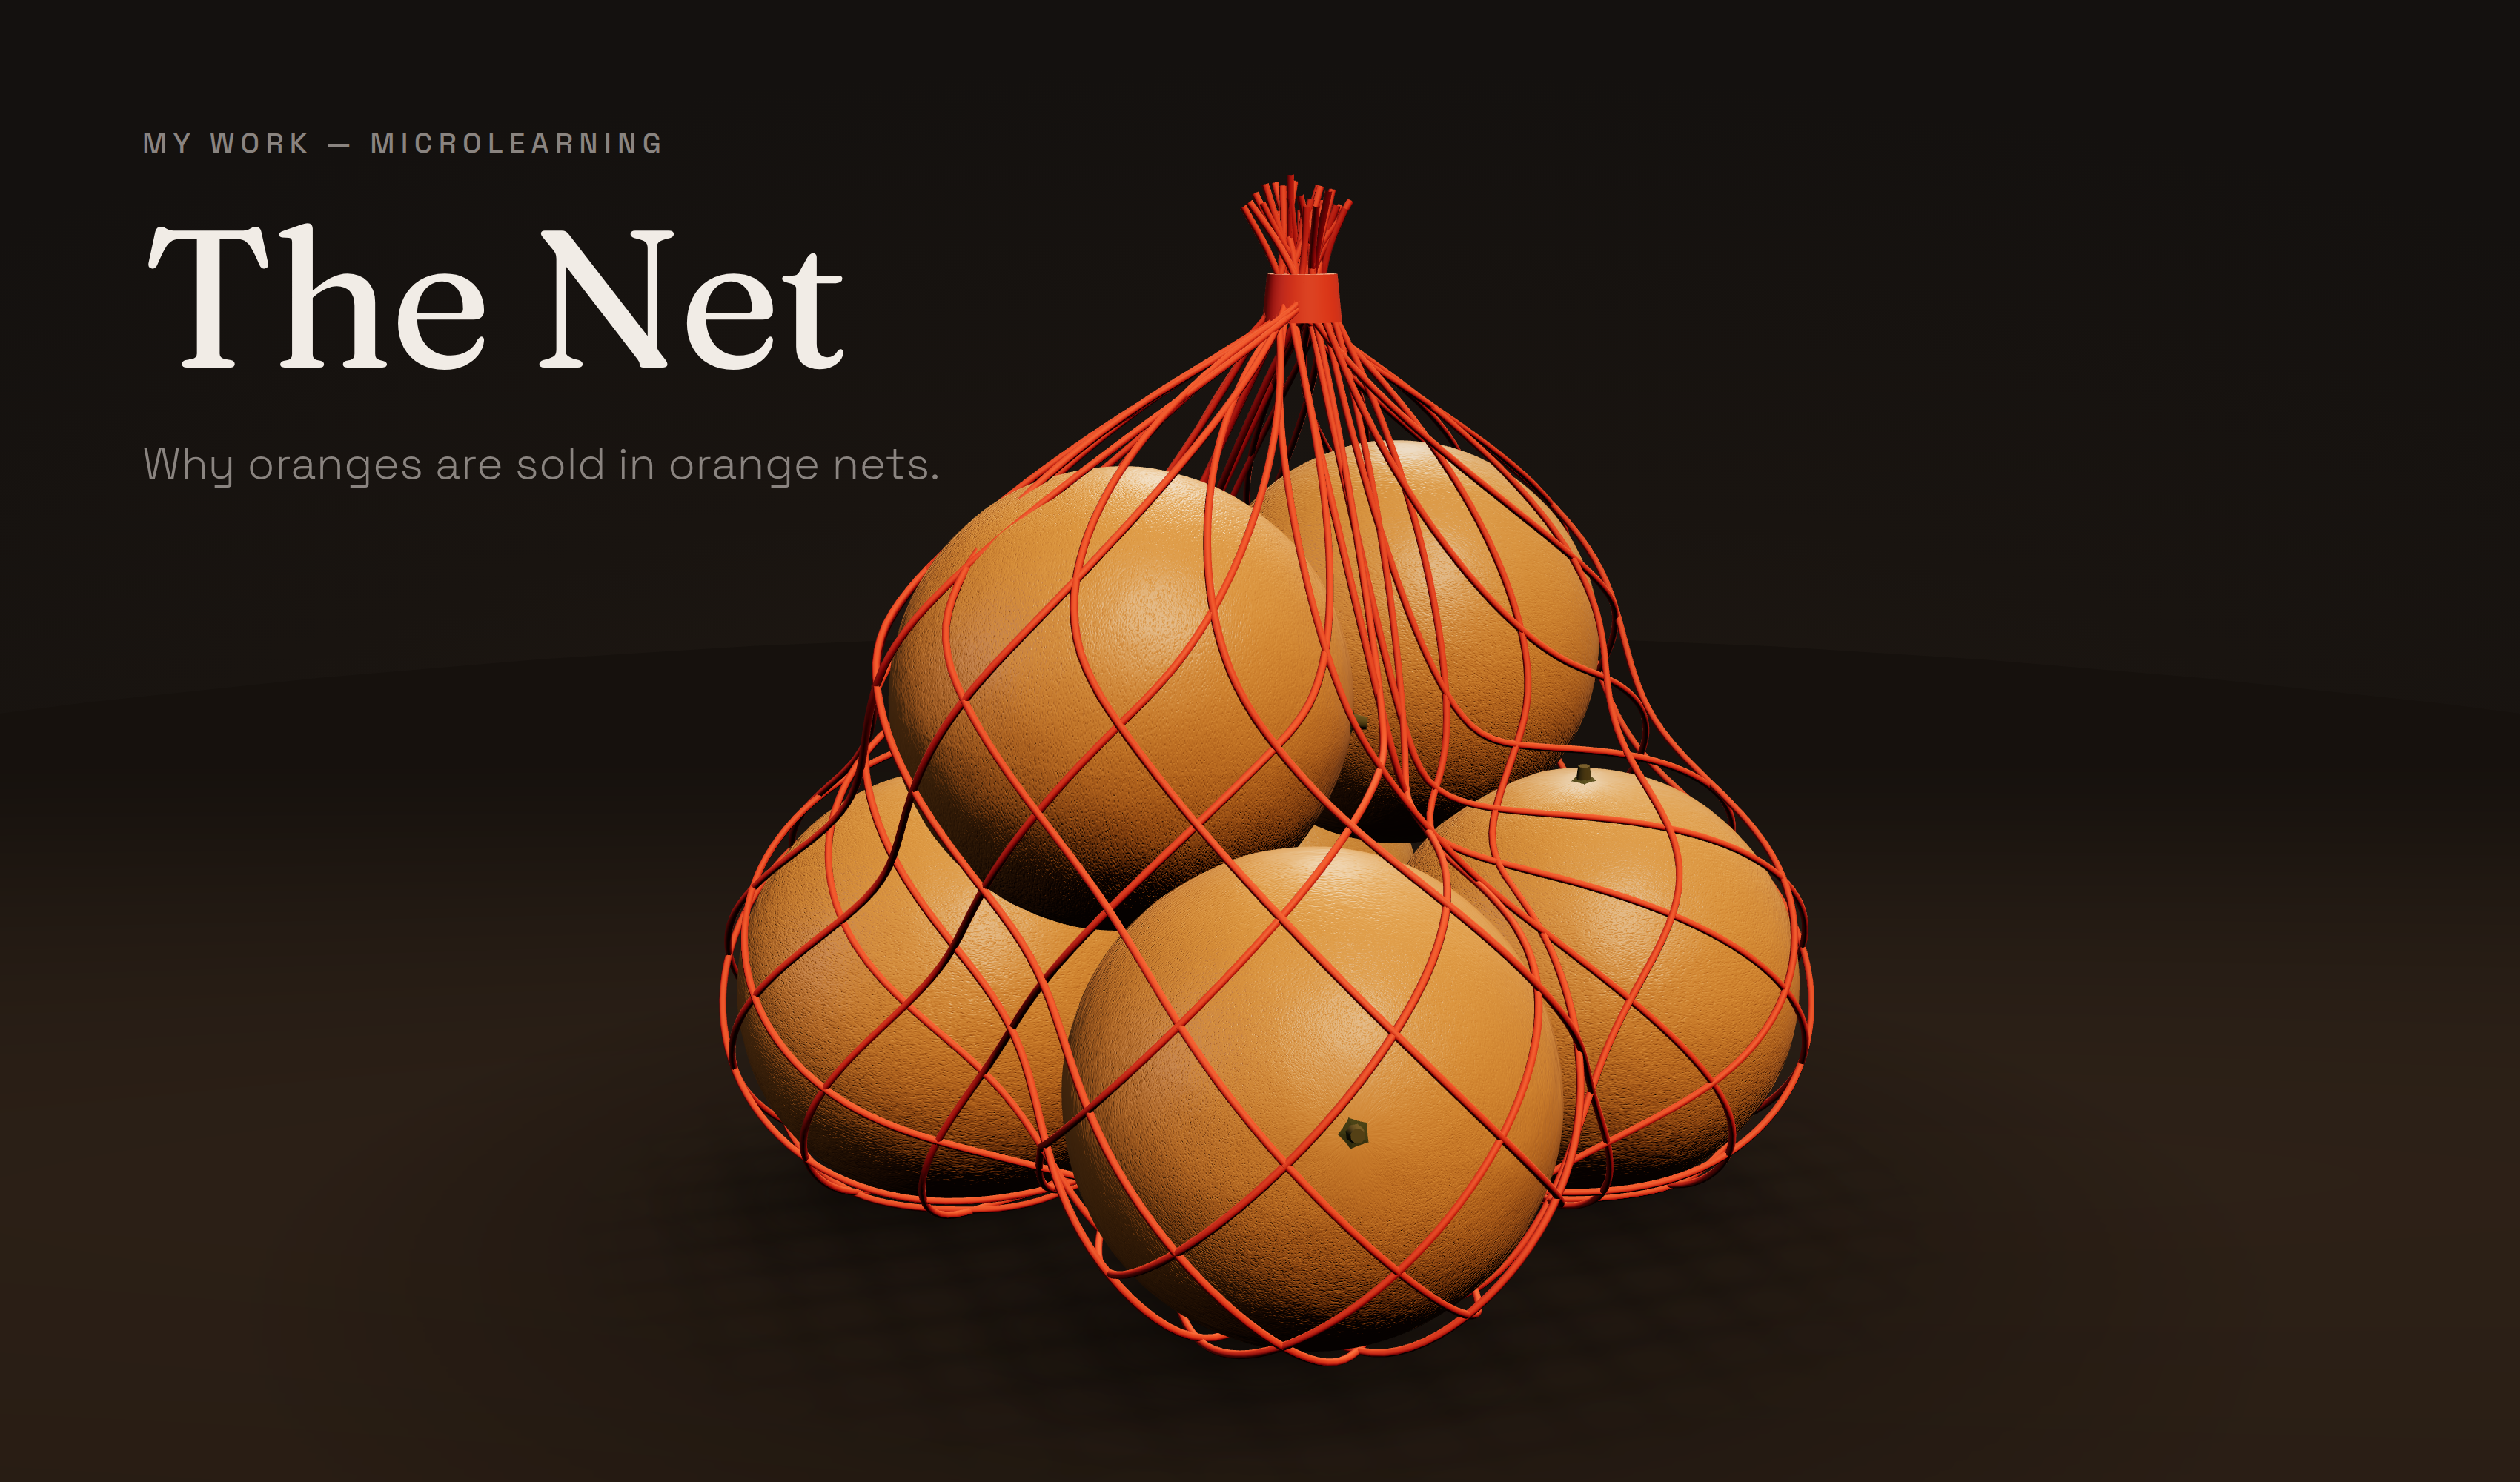
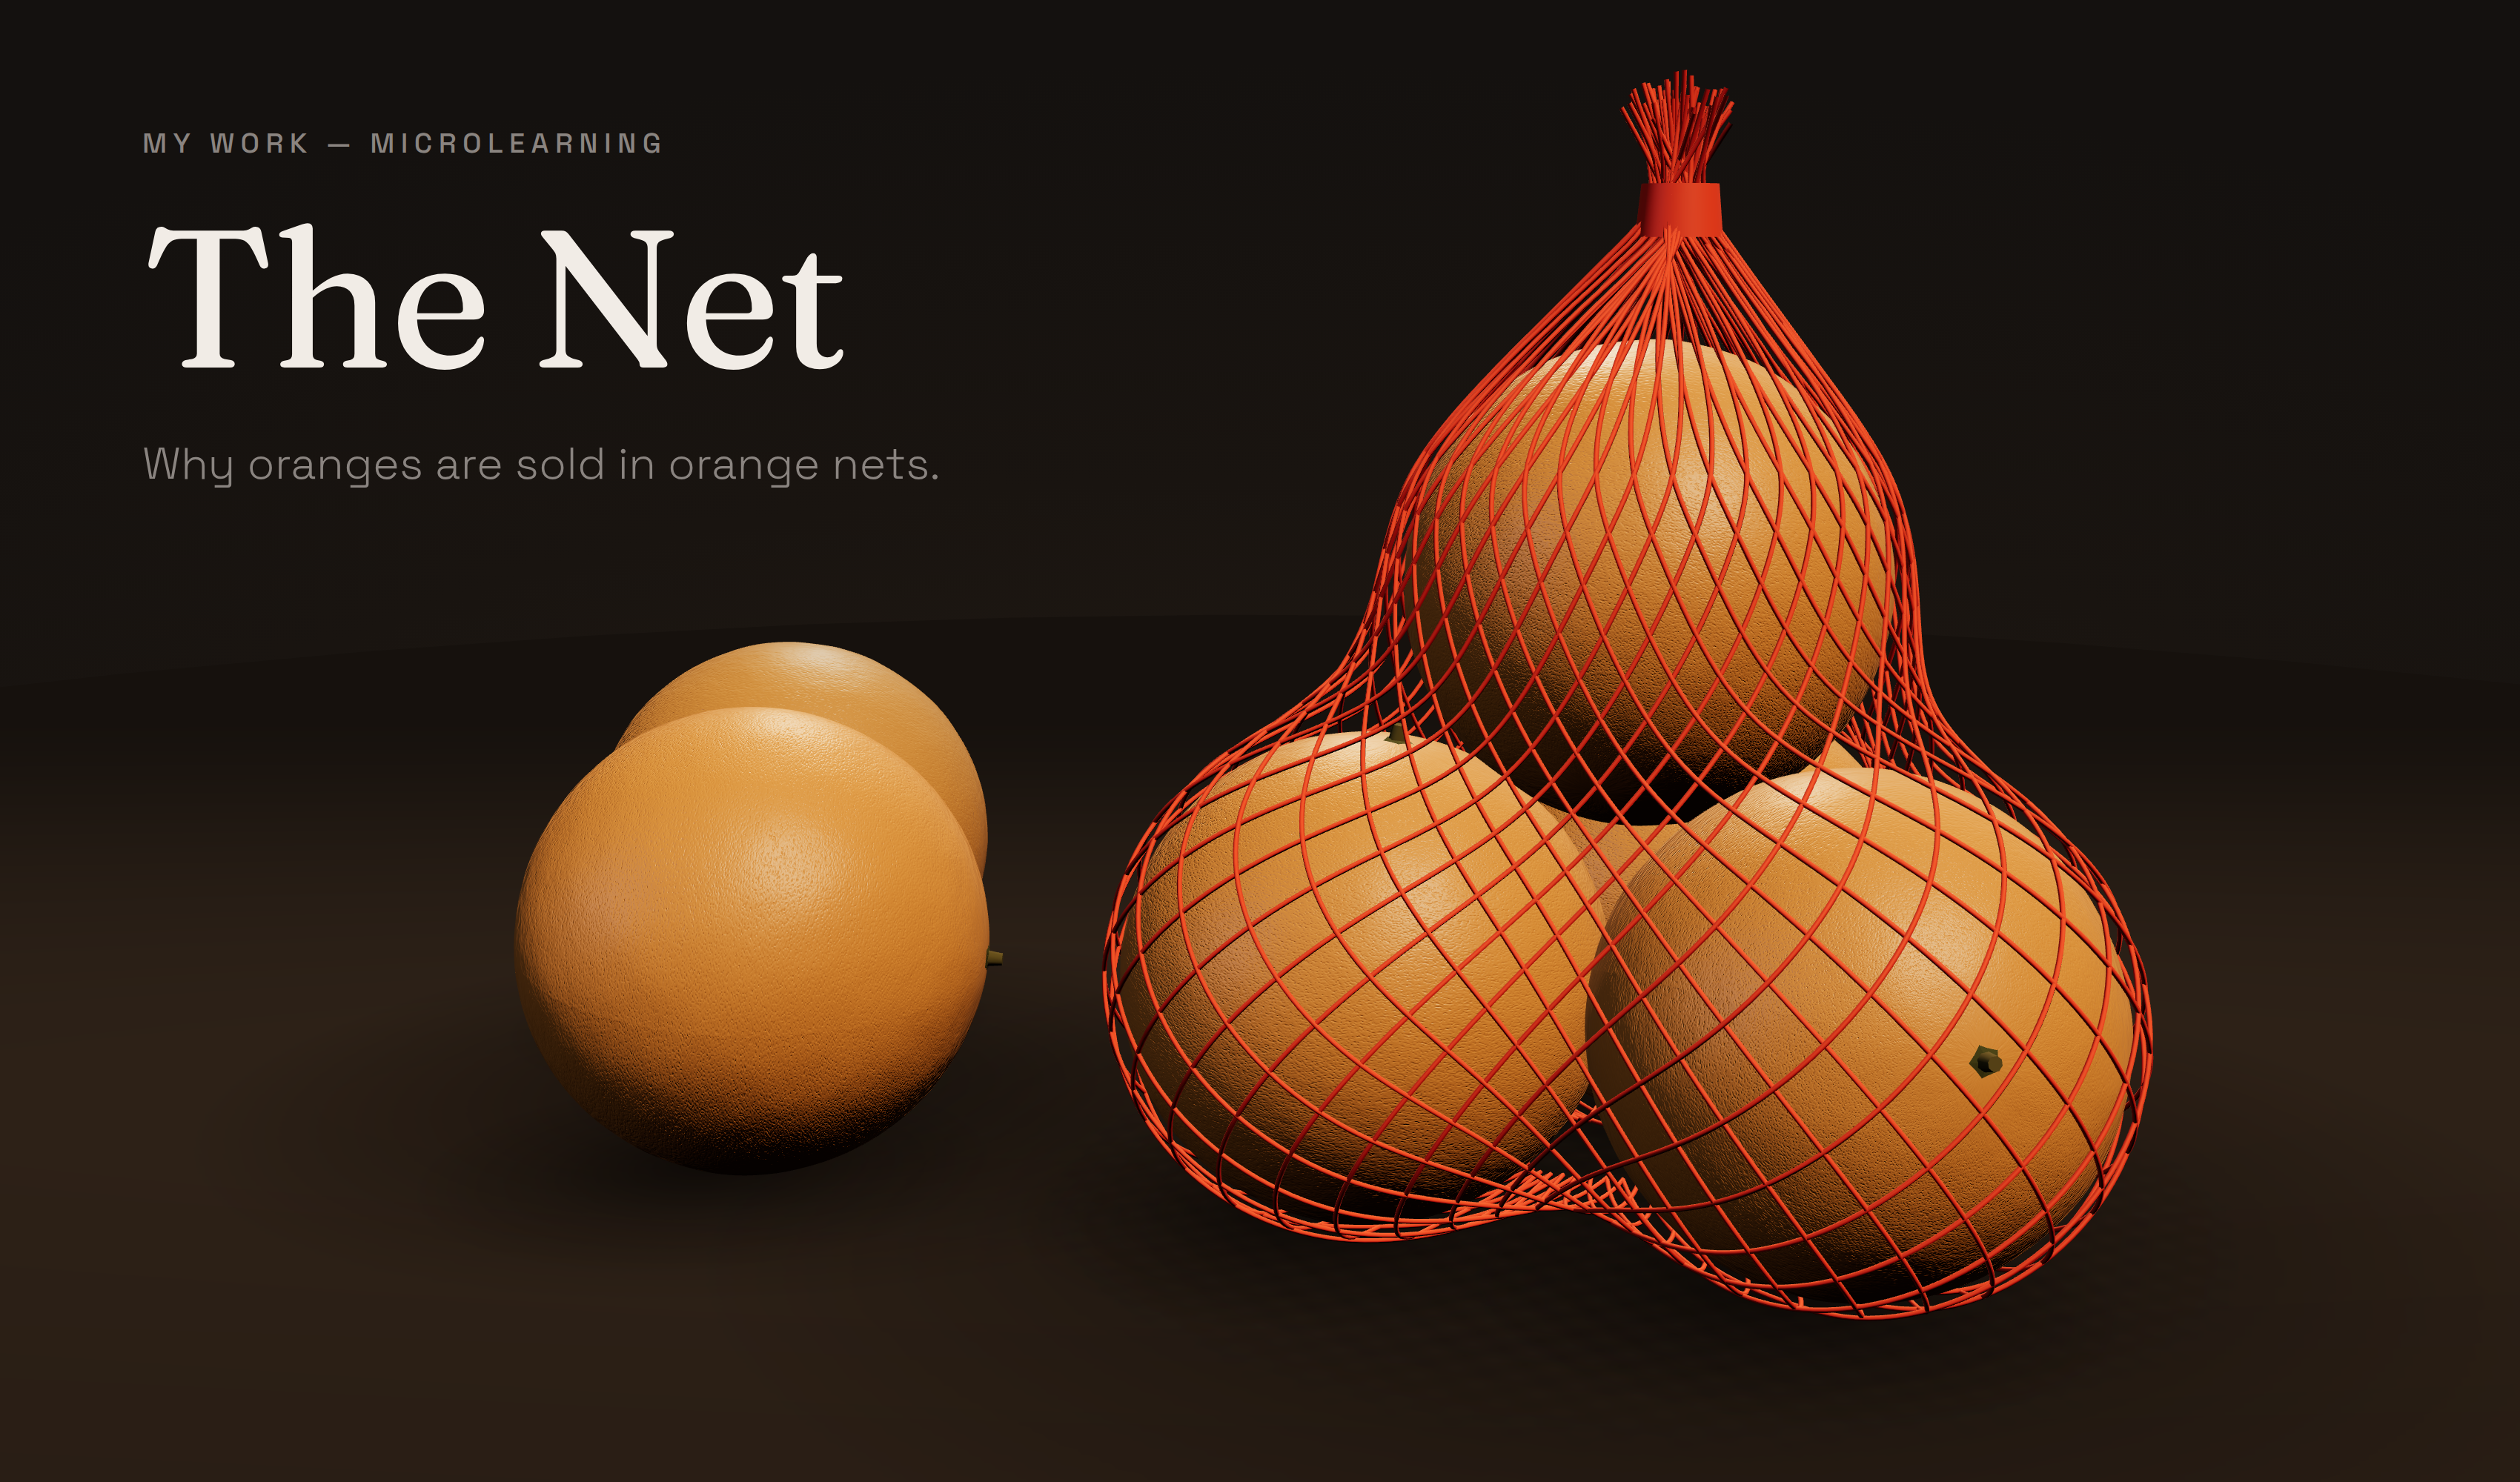
Fix the experiment: bagged fruit vs loose fruit, weave fine enough to work
User testing showed the trap never sprang: with all six oranges under one
net, everything shifted together, so nothing looked riper than anything
else and the reveal had no surprise. Two changes, both perceptual:

- Split the staging into the actual grocery comparison — four fruit
  inside the net, two loose on the ground beside it. The bagged fruit
  now read warm and ripe against visibly duller loose fruit, and the
  reveal demonstrates the shift live as the net lifts away.
- Made the weave fine enough for Bezold spreading to fire: assimilation
  is a spatial-frequency effect that needs thin, dense lines, so the net
  went from 19 coarse strands per family to 40 hair-width ones, gathered
  later so the top fruit stays wrapped to the neck.

Shadows, settle pulse and the cast lattice follow the new staging; the
spiral card is re-rendered from the new scene so the cover itself shows
the comparison. Verified: all six scenes clean, both eyedropper readings
identical (#D28C3E), keyboard and reduced-motion intact, build green.

Claude-Session: https://claude.ai/code/session_01KBWTNFAkPGT1J4PP6ELNSb

Changed region(s): [[0.1871, 0.031, 0.8729, 0.93]]

diff --git a/utils/thenet/stage.ts b/utils/thenet/stage.ts
@@ -25,17 +25,25 @@ import { fbm3, mulberry32 } from './noise'
 // ── layout constants ─────────────────────────────────────────
 // Fruit radius is 0.5 · scale; centres tuned so neighbours touch without
 // intersecting. Ground is y = 0.
+//
+// The staging IS the experiment: four fruit inside the net, two loose on
+// the ground beside it. Without that split every fruit shifts together and
+// there is nothing to compare — the trap never springs. With it, the bagged
+// fruit read riper than the loose ones while every peel is the same paint.
 const R = 0.5
-const PILE: { p: [number, number, number]; s: number }[] = [
-  { p: [-0.62, 0.475, 0.28], s: 0.97 },
-  { p: [0.42, 0.48, 0.62], s: 0.98 },
-  { p: [0.62, 0.47, -0.4], s: 0.96 },
-  { p: [-0.42, 0.475, -0.66], s: 0.97 },
-  { p: [-0.1, 1.2, 0.44], s: 0.95 },
-  { p: [0.1, 1.19, -0.52], s: 0.94 }
+const BAGGED: { p: [number, number, number]; s: number }[] = [
+  { p: [0.3, 0.49, 0.34], s: 0.97 },
+  { p: [1.26, 0.49, 0.38], s: 0.98 },
+  { p: [0.78, 0.47, -0.52], s: 0.96 },
+  { p: [0.78, 1.26, 0.06], s: 0.95 }
 ]
-const PILE_CENTER = new THREE.Vector3(0, 0.74, 0)
-const KNOT = new THREE.Vector3(0.08, 2.0, -0.04)
+const LOOSE: { p: [number, number, number]; s: number }[] = [
+  { p: [-0.98, 0.49, 0.52], s: 0.97 },
+  { p: [-1.44, 0.47, -0.42], s: 0.96 }
+]
+const PILE = [...BAGGED, ...LOOSE]
+const BAG_CENTER = new THREE.Vector3(0.78, 0.72, 0.06)
+const KNOT = new THREE.Vector3(0.82, 1.98, 0.03)
 
 export interface OrangeScreenPos {
   x: number
@@ -85,8 +93,8 @@ export class NetStage {
     this.scene.fog = new THREE.Fog(0x16110d, 5.5, 11)
 
     this.camera = new THREE.PerspectiveCamera(31, 1, 0.1, 100)
-    this.camera.position.set(2.55, 2.2, 5.15)
-    this.camera.lookAt(0, 1.04, 0)
+    this.camera.position.set(1.9, 1.95, 5.2)
+    this.camera.lookAt(-0.05, 0.88, 0)
 
     this.pmrem = new THREE.PMREMGenerator(this.renderer)
     this.scene.environment = this.buildEnvironment()
@@ -250,18 +258,18 @@ export class NetStage {
     return tex
   }
 
-  // ── the net: tube strands draped over the fruit hull ───────
+  // ── the net: tube strands draped over the BAGGED fruit hull ─
   private bagSDF(p: THREE.Vector3): number {
     let d = Infinity
-    for (const { p: c, s } of PILE) {
+    for (const { p: c, s } of BAGGED) {
       const dist =
-        Math.hypot(p.x - c[0], p.y - c[1], p.z - c[2]) - (R * s + 0.045)
+        Math.hypot(p.x - c[0], p.y - c[1], p.z - c[2]) - (R * s + 0.04)
       d = smin(d, dist, 0.38)
     }
     return d
   }
 
-  /** March outward from the pile centre; return where the strand rests. */
+  /** March outward from the bag centre; return where the strand rests. */
   private surfacePoint(dir: THREE.Vector3): THREE.Vector3 {
     const steps = 120
     const maxR = 2.6
@@ -271,7 +279,7 @@ export class NetStage {
     const probe = new THREE.Vector3()
     for (let i = 0; i <= steps; i++) {
       const r = 0.05 + (maxR - 0.05) * (i / steps)
-      probe.copy(PILE_CENTER).addScaledVector(dir, r)
+      probe.copy(BAG_CENTER).addScaledVector(dir, r)
       const d = this.bagSDF(probe)
       if (d < 0) lastNeg = r
       if (Math.abs(d) < bestD) {
@@ -288,13 +296,13 @@ export class NetStage {
       let hi = Math.min(lastNeg + (maxR - 0.05) / steps, maxR)
       for (let i = 0; i < 24; i++) {
         const mid = (lo + hi) / 2
-        probe.copy(PILE_CENTER).addScaledVector(dir, mid)
+        probe.copy(BAG_CENTER).addScaledVector(dir, mid)
         if (this.bagSDF(probe) < 0) lo = mid
         else hi = mid
       }
       r = (lo + hi) / 2
     }
-    const out = PILE_CENTER.clone().addScaledVector(dir, r)
+    const out = BAG_CENTER.clone().addScaledVector(dir, r)
     out.y = Math.max(out.y, 0.02) // strands press flat against the ground
     return out
   }
@@ -308,8 +316,12 @@ export class NetStage {
       envMapIntensity: 0.6
     })
 
+    // Assimilation is a spatial-frequency effect: it only fires when the
+    // coloured lines are THIN and DENSE at viewing scale. A coarse cage
+    // does nothing — the eye keeps fruit and net separate. So the weave is
+    // fine: many hair-width strands, small cells.
     const rand = mulberry32(23)
-    const strandsPerFamily = 19
+    const strandsPerFamily = 40
     const samples = 46
 
     for (const twist of [2.35, -2.35]) {
@@ -318,8 +330,8 @@ export class NetStage {
         const pts: THREE.Vector3[] = []
         for (let i = 0; i <= samples; i++) {
           const t = i / samples
-          // bottom pole → shoulder, with the family's helical twist
-          const phi = Math.PI * (0.9 - 0.76 * t)
+          // bottom pole → close to the top pole, with the family's twist
+          const phi = Math.PI * (0.9 - 0.84 * t)
           const theta = theta0 + twist * t
           const dir = new THREE.Vector3(
             Math.sin(phi) * Math.cos(theta),
@@ -327,8 +339,9 @@ export class NetStage {
             Math.sin(phi) * Math.sin(theta)
           )
           let p = this.surfacePoint(dir)
-          // gather into the neck over the last stretch
-          const g = THREE.MathUtils.smoothstep(t, 0.78, 1)
+          // gather into the neck only over the very last stretch, so the
+          // top fruit stays wrapped instead of poking through a sparse cone
+          const g = THREE.MathUtils.smoothstep(t, 0.88, 1)
           if (g > 0) {
             const bundle = KNOT.clone()
             bundle.x += Math.cos(theta0 * 3.1) * 0.045
@@ -348,7 +361,7 @@ export class NetStage {
 
         this.smoothPolyline(pts, 2)
         const curve = new THREE.CatmullRomCurve3(pts)
-        const tube = new THREE.TubeGeometry(curve, 140, 0.008, 6, false)
+        const tube = new THREE.TubeGeometry(curve, 150, 0.005, 5, false)
         this.netGroup.add(new THREE.Mesh(tube, this.netMaterial))
       }
     }
@@ -391,19 +404,22 @@ export class NetStage {
   }
 
   private buildShadows() {
-    // one wide ambient pool under the pile
-    const pool = new THREE.Mesh(
-      new THREE.PlaneGeometry(4.4, 4.4),
+    // ambient pools: one under the bag, a smaller one under the loose pair
+    const poolMat = () =>
       new THREE.MeshBasicMaterial({ map: this.radialTexture(0.5, 0.22), transparent: true, depthWrite: false })
-    )
-    pool.rotation.x = -Math.PI / 2
-    pool.position.y = 0.008
-    this.root.add(pool)
+    const bagPool = new THREE.Mesh(new THREE.PlaneGeometry(3.8, 3.8), poolMat())
+    bagPool.rotation.x = -Math.PI / 2
+    bagPool.position.set(BAG_CENTER.x, 0.008, BAG_CENTER.z)
+    this.root.add(bagPool)
+    const loosePool = new THREE.Mesh(new THREE.PlaneGeometry(2.6, 2.6), poolMat())
+    loosePool.rotation.x = -Math.PI / 2
+    loosePool.position.set(-1.2, 0.008, 0.05)
+    this.root.add(loosePool)
 
-    // tighter contact blobs under the four grounded fruit, nudged away
-    // from the key light
+    // tighter contact blobs under every grounded fruit, nudged away from
+    // the key light
     const blobTex = this.radialTexture(0.55, 0.18)
-    for (const { p, s } of PILE.slice(0, 4)) {
+    for (const { p, s } of PILE.filter((o) => o.p[1] < 0.6)) {
       const blob = new THREE.Mesh(
         new THREE.PlaneGeometry(1.25 * s, 1.25 * s),
         new THREE.MeshBasicMaterial({ map: blobTex, transparent: true, depthWrite: false })
@@ -419,10 +435,10 @@ export class NetStage {
     const c = document.createElement('canvas')
     c.width = c.height = size
     const ctx = c.getContext('2d')!
-    ctx.strokeStyle = 'rgba(0,0,0,0.6)'
-    ctx.lineWidth = 5
-    ctx.filter = 'blur(4px)'
-    for (let d = -size; d < size * 2; d += 42) {
+    ctx.strokeStyle = 'rgba(0,0,0,0.55)'
+    ctx.lineWidth = 3
+    ctx.filter = 'blur(3px)'
+    for (let d = -size; d < size * 2; d += 22) {
       ctx.beginPath()
       ctx.moveTo(d, 0)
       ctx.lineTo(d + size, size)
@@ -446,15 +462,15 @@ export class NetStage {
       opacity: 0.5,
       depthWrite: false
     })
-    const lattice = new THREE.Mesh(new THREE.PlaneGeometry(3.1, 3.1), this.netShadowMaterial)
+    const lattice = new THREE.Mesh(new THREE.PlaneGeometry(2.5, 2.5), this.netShadowMaterial)
     lattice.rotation.x = -Math.PI / 2
-    lattice.position.y = 0.012
+    lattice.position.set(BAG_CENTER.x, 0.012, BAG_CENTER.z)
     this.root.add(lattice)
   }
 
-  /** A tiny staggered squash as the net clears — the pile settles. */
+  /** A tiny staggered squash as the net clears — the bagged pile settles. */
   pulseOranges(gsapLib: { to: Function }) {
-    this.oranges.forEach((m, i) => {
+    this.oranges.slice(0, BAGGED.length).forEach((m, i) => {
       const parent = m.parent as THREE.Group
       const s = parent.scale.x
       gsapLib.to(parent.scale, {